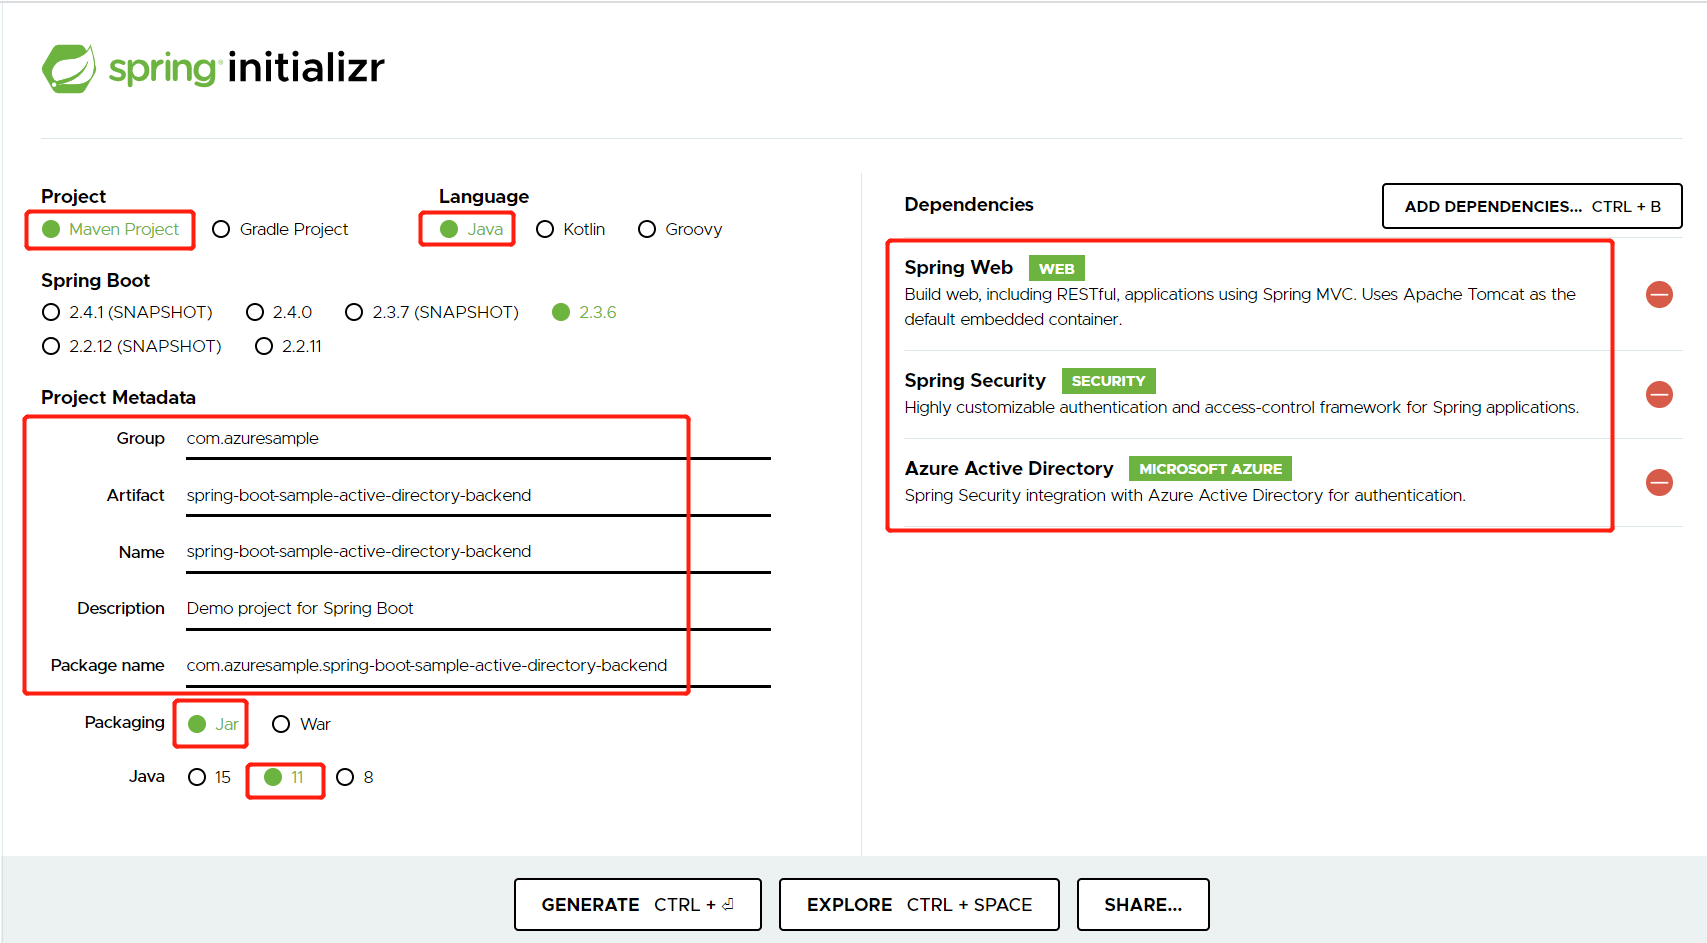
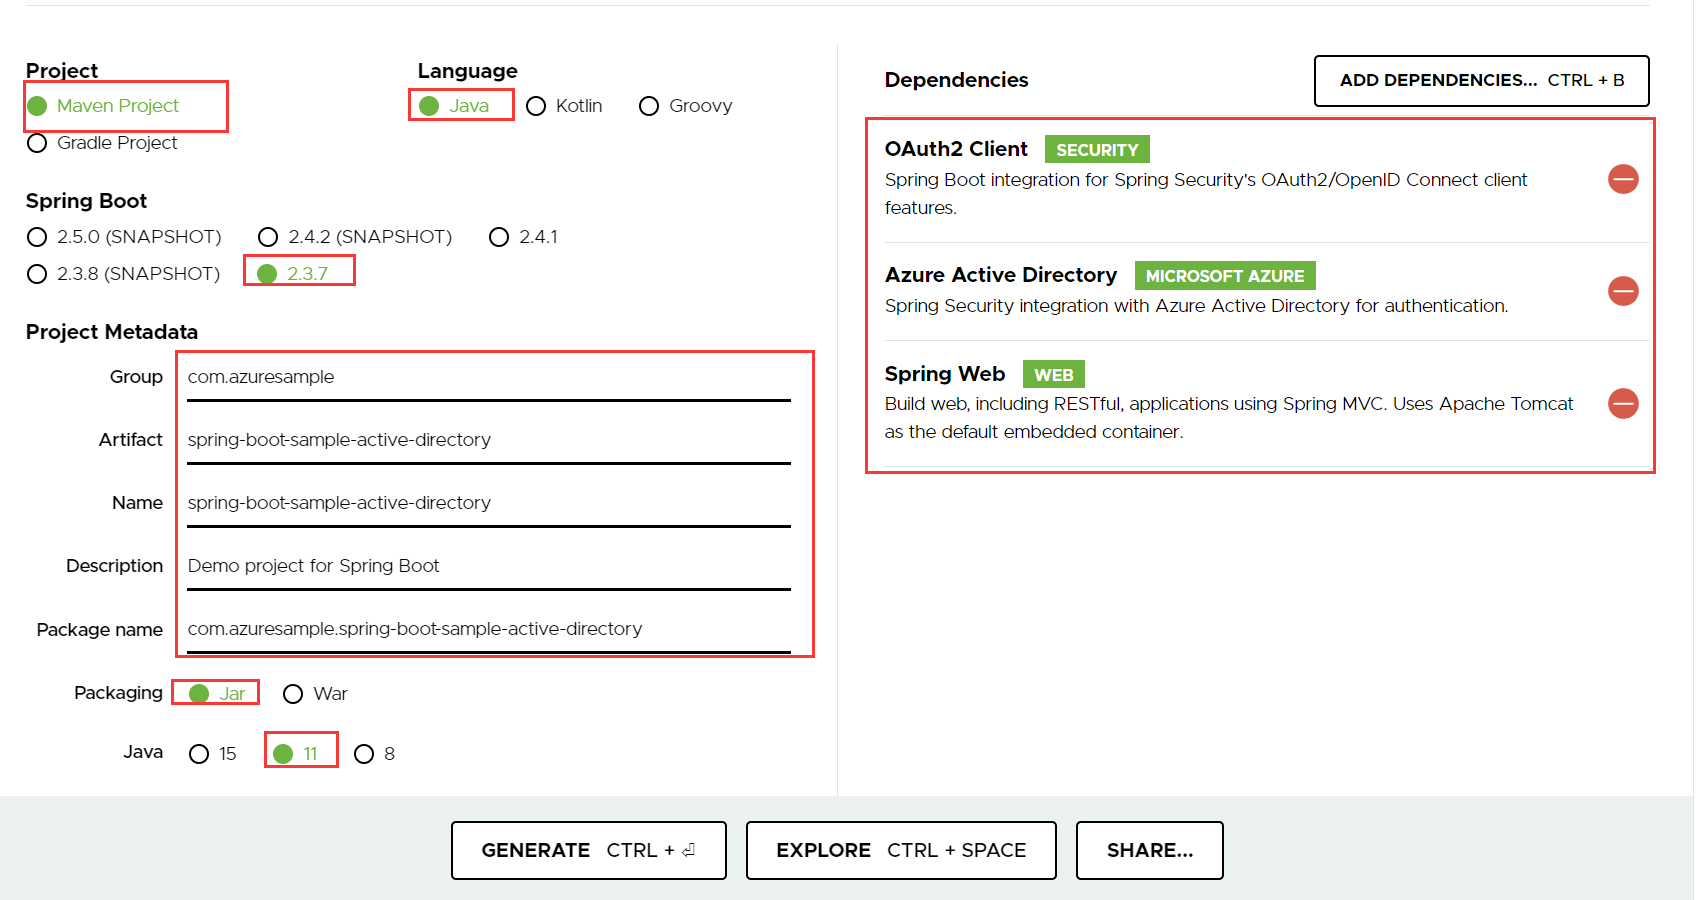
update azure active directory md file

diff --git a/articles/java/spring-framework/configure-spring-boot-starter-java-app-with-azure-active-directory.md b/articles/java/spring-framework/configure-spring-boot-starter-java-app-with-azure-active-directory.md
@@ -36,7 +36,7 @@ The following prerequisites are required in order to complete the steps in this 
 1. Browse to <https://start.spring.io/>.
 
 1. Specify that you want to generate a **Maven** project with **Java**, enter the **Group** and **Artifact** names for your application.
-1. Add **Dependencies** for **Spring Web**, **Azure Active Directory**, and **Spring Security**.
+1. Add **Dependencies** for **Spring Web**, **Azure Active Directory**, and **OAuth2 Client**.
 1. At the bottom of the page and select the **GENERATE** button.
    
    >[!div class="mx-imgBorder"]
@@ -130,14 +130,6 @@ The following prerequisites are required in order to complete the steps in this 
    >[!div class="mx-imgBorder"]
    >![Add new Reply URL][create-app-registration-10]
 
-1. From the main page for your app registration, select **Manifest**, then set the value of the `oauth2AllowIdTokenImplicitFlow` and `oauth2AllowImplicitFlow` parameters to `true`, and then select **Save**.
-   
-   >[!div class="mx-imgBorder"]
-   >![Configure app manifest][create-app-registration-11]
-
-   > [!NOTE]
-   > For more information about the `oauth2AllowIdTokenImplicitFlow` and `oauth2AllowImplicitFlow` parameters and other application settings, see [Azure Active Directory application manifest][AAD app manifest].
-
 ### Add a user account to your directory, and add that account to a group
 
 1. From the **Overview** page of your Active Directory, select **Users**, and then select **New user**.
@@ -157,7 +149,7 @@ The following prerequisites are required in order to complete the steps in this 
 
 1. From the **Overview** page of your Active Directory, select **Groups**, then **New group** that you will use for authorization in your application.
 
-1. Select **No members selected**. (For the purposes of this tutorial, we'll create a group named *users*.)  Search for the user created in the previous step.  Select **Select** to add the user to the group.  Then select **Create** to create the new group.
+1. Select **No members selected**. (For the purposes of this tutorial, we'll create a group named *group1*.)  Search for the user created in the previous step.  Select **Select** to add the user to the group.  Then select **Create** to create the new group.
 
    >[!div class="mx-imgBorder"]
    >![Select the user for group][create-user-03]
@@ -171,39 +163,22 @@ The following prerequisites are required in order to complete the steps in this 
 
 1. Extract the files from the project archive you created and downloaded earlier in this tutorial into a directory.
 
-1. Navigate to the parent folder for your project, and open the `pom.xml` Maven project file in a text editor.
-
-1. Add the dependencies for Spring OAuth2 security to the `pom.xml`:
-
-   ```xml
-   <dependency>
-      <groupId>org.springframework.security</groupId>
-      <artifactId>spring-security-oauth2-client</artifactId>
-   </dependency>
-   <dependency>
-      <groupId>org.springframework.security</groupId>
-      <artifactId>spring-security-oauth2-jose</artifactId>
-   </dependency>
-   ```
-
-1. Save and close the *pom.xml* file.
-
-1. Navigate to the *src/main/resources* folder in your project and open the *application.properties* file in a text editor.
+1. Navigate to the *src/main/resources* folder in your project and change *application.properties* as *application.yml* , then open the *application.yml* file in a text editor.
 
 1. Specify the settings for your app registration using the values you created earlier; for example:
 
    ```yaml
-   # Specifies your Active Directory ID:
-   azure.activedirectory.tenant-id=22222222-2222-2222-2222-222222222222
-
-   # Specifies your App Registration's Application ID:
-   spring.security.oauth2.client.registration.azure.client-id=11111111-1111-1111-1111-1111111111111111
-
-   # Specifies your App Registration's secret key:
-   spring.security.oauth2.client.registration.azure.client-secret=AbCdEfGhIjKlMnOpQrStUvWxYz==
-
-   # Specifies the list of Active Directory groups to use for authorization:
-   azure.activedirectory.user-group.allowed-groups=Users
+   azure:
+     activedirectory:
+       # Specifies your Active Directory ID:
+       tenant-id: 22222222-2222-2222-2222-222222222222
+       # Specifies your App Registration's Application ID:
+       client-id: 11111111-1111-1111-1111-1111111111111111
+       # Specifies your App Registration's secret key:
+       client-secret: AbCdEfGhIjKlMnOpQrStUvWxYz==
+       # Specifies the list of Active Directory groups to use for authorization:
+       user-group:
+         allowed-groups: group1
    ```
 
    Where:
@@ -211,14 +186,14 @@ The following prerequisites are required in order to complete the steps in this 
    | Parameter | Description |
    |---|---|
    | `azure.activedirectory.tenant-id` | Contains your Active Directory's **Directory ID** from earlier. |
-   | `spring.security.oauth2.client.registration.azure.client-id` | Contains the **Application ID** from your app registration that you completed earlier. |
-   | `spring.security.oauth2.client.registration.azure.client-secret` | Contains the **Value** from your app registration key that you completed earlier. |
+   | `azure.activedirectory.client-id` | Contains the **Application ID** from your app registration that you completed earlier. |
+   | `azure.activedirectory.client-secret` | Contains the **Value** from your app registration key that you completed earlier. |
    | `azure.activedirectory.user-group.allowed-groups` | Contains a list of Active Directory groups to use for authorization. |
 
    > [!NOTE]
    > For a full list of values that are available in your *application.properties* file, see the [Azure Active Directory Spring Boot Sample][AAD Spring Boot Sample] on GitHub.
 
-1. Save and close the *application.properties* file.
+1. Save and close the *application.yml* file.
 
 1. Create a folder named *controller* in the Java source folder for your application; for example: *src/main/java/com/wingtiptoys/security/controller*.
 
@@ -229,21 +204,26 @@ The following prerequisites are required in order to complete the steps in this 
    ```java
    package com.wingtiptoys.security;
 
-   import org.springframework.web.bind.annotation.RequestMapping;
+   import org.springframework.web.bind.annotation.GetMapping;
+   import org.springframework.web.bind.annotation.ResponseBody;
    import org.springframework.web.bind.annotation.RestController;
-   import org.springframework.beans.factory.annotation.Autowired;
    import org.springframework.security.access.prepost.PreAuthorize;
-   import org.springframework.security.oauth2.client.OAuth2AuthorizedClient;
-   import org.springframework.security.oauth2.client.authentication.OAuth2AuthenticationToken;
-   import org.springframework.ui.Model;
-
+   
    @RestController
    public class HelloController {
-      @Autowired
-      @PreAuthorize("hasRole('Users')")
-      @RequestMapping("/")
-      public String helloWorld() {
-         return "Hello World!";
+   
+      @GetMapping("group1")
+      @ResponseBody
+      @PreAuthorize("hasRole('ROLE_group1')")
+      public String group1() {
+         return "Hello Group 1 Users!";
+      }
+    
+      @GetMapping("group2")
+      @ResponseBody
+      @PreAuthorize("hasRole('ROLE_group2')")
+      public String group2() {
+         return "Hello Group 2 Users!";
       }
    }
    ```
@@ -255,18 +235,18 @@ The following prerequisites are required in order to complete the steps in this 
    >
    > ``` java
    > public class HelloController {
-   >    @Autowired
-   >    @PreAuthorize("hasRole('Users')")
+   >
+   >    @PreAuthorize("hasRole('ROLE_Users')")
    >    @RequestMapping("/")
    >    public String helloWorld() {
    >       return "Hello Users!";
    >    }
-   >    @PreAuthorize("hasRole('Group1')")
+   >    @PreAuthorize("hasRole('ROLE_group1')")
    >    @RequestMapping("/Group1")
    >    public String groupOne() {
    >       return "Hello Group 1 Users!";
    >    }
-   >    @PreAuthorize("hasRole('Group2')")
+   >    @PreAuthorize("hasRole('ROLE_group2')")
    >    @RequestMapping("/Group2")
    >    public String groupTwo() {
    >       return "Hello Group 2 Users!";
@@ -274,40 +254,25 @@ The following prerequisites are required in order to complete the steps in this 
    > }
    > ```
 
-1. Create a folder named *security* in the Java source folder for your application; for example: *src/main/java/com/wingtiptoys/security/security*.
+1. Open your *application class* in a text editor.
 
-1. Create a new Java file named *WebSecurityConfig.java* in the *security* folder and open it in a text editor.
-
-1. Enter the following code, then save and close the file:
+1. Add `@EnableWebSecurity` and `@EnableGlobalMethodSecurity(prePostEnabled = true)` in your *application class* like following, then save and close the file:
 
     ```java
-    package com.wingtiptoys.security;
+    package com.wingtiptoys;
 
-    import org.springframework.beans.factory.annotation.Autowired;
+    import org.springframework.boot.SpringApplication;
+    import org.springframework.boot.autoconfigure.SpringBootApplication;
     import org.springframework.security.config.annotation.method.configuration.EnableGlobalMethodSecurity;
-    import org.springframework.security.config.annotation.web.builders.HttpSecurity;
     import org.springframework.security.config.annotation.web.configuration.EnableWebSecurity;
-    import org.springframework.security.config.annotation.web.configuration.WebSecurityConfigurerAdapter;
-    import org.springframework.security.oauth2.client.oidc.userinfo.OidcUserRequest;
-    import org.springframework.security.oauth2.client.userinfo.OAuth2UserService;
-    import org.springframework.security.oauth2.core.oidc.user.OidcUser;
-
+    
     @EnableWebSecurity
     @EnableGlobalMethodSecurity(prePostEnabled = true)
-    public class WebSecurityConfig extends WebSecurityConfigurerAdapter {
-        @Autowired
-        private OAuth2UserService<OidcUserRequest, OidcUser> oidcUserService;
-
-        @Override
-        protected void configure(HttpSecurity http) throws Exception {
-            http
-                .authorizeRequests()
-                .anyRequest().authenticated()
-                .and()
-                .oauth2Login()
-                .userInfoEndpoint()
-                .oidcUserService(oidcUserService);
-        }
+    @SpringBootApplication
+    public class SpringBootSampleActiveDirectoryApplication {   
+        public static void main(String[] args) {
+            SpringApplication.run(SpringBootSampleActiveDirectoryApplication.class, args);
+        }   
     }
     ```
 
@@ -325,7 +290,7 @@ The following prerequisites are required in order to complete the steps in this 
    >[!div class="mx-imgBorder"]
    >![Build your application][build-application]
 
-1. After your application is built and started by Maven, open http:<span></span>//localhost:8080 in a web browser; you should be prompted for a user name and password.
+1. After your application is built and started by Maven, open http:<span></span>//localhost:8080/group1 in a web browser; you should be prompted for a user name and password.
    
    >[!div class="mx-imgBorder"]
    ![Logging into your application][application-login]
@@ -336,14 +301,16 @@ The following prerequisites are required in order to complete the steps in this 
    >[!div class="mx-imgBorder"]
    >![Changing your password][update-password]
 
-1. After you have logged in successfully, you should see the sample "Hello World" text from the controller.
+1. After you have logged in successfully, you should see the sample "Hello Group 1 Users!" text from the controller.
 
    >[!div class="mx-imgBorder"]
-   >![Successful login][hello-world]
+   >![Authorized_group1][hello-group1]
 
    > [!NOTE]
    > User accounts which are not authorized will receive an **HTTP 403 Unauthorized** message.
 
+   >[!div class="mx-imgBorder"]
+   >![UnAuthorized_group2][Unauthorized-group2]
 ## Summary
 
 In this tutorial, you created a new Java web application using the Azure Active Directory starter, configured a new Azure AD tenant and registered a new application in it, and then configured your application to use the Spring annotations and classes to protect the web app.
@@ -391,7 +358,6 @@ To learn more about Spring and Azure, continue to the Spring on Azure documentat
 [create-app-registration-08]: media/configure-spring-boot-starter-java-app-with-azure-active-directory/create-app-registration-08.png
 [create-app-registration-09]: media/configure-spring-boot-starter-java-app-with-azure-active-directory/create-app-registration-09.png
 [create-app-registration-10]: media/configure-spring-boot-starter-java-app-with-azure-active-directory/create-app-registration-10.png
-[create-app-registration-11]: media/configure-spring-boot-starter-java-app-with-azure-active-directory/create-app-registration-11.png
 
 [create-user-01]: media/configure-spring-boot-starter-java-app-with-azure-active-directory/create-user-01.png
 [create-user-02]: media/configure-spring-boot-starter-java-app-with-azure-active-directory/create-user-02.png
@@ -400,5 +366,6 @@ To learn more about Spring and Azure, continue to the Spring on Azure documentat
 
 [application-login]: media/configure-spring-boot-starter-java-app-with-azure-active-directory/application-login.png
 [build-application]: media/configure-spring-boot-starter-java-app-with-azure-active-directory/build-application.png
-[hello-world]: media/configure-spring-boot-starter-java-app-with-azure-active-directory/hello-world.png
+[hello-group1]: media/configure-spring-boot-starter-java-app-with-azure-active-directory/hello-group1.png
 [update-password]: media/configure-spring-boot-starter-java-app-with-azure-active-directory/update-password.png
+[Unauthorized-group2]: media/configure-spring-boot-starter-java-app-with-azure-active-directory/unauthorized-group2.png
